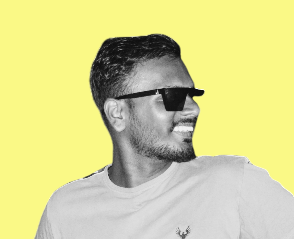
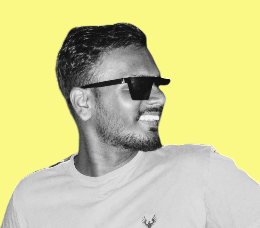
all files are added adn complete portfolio

diff --git a/index.html b/index.html
@@ -12,12 +12,12 @@
 
 <body>
   <nav id="desktop-nav">
-    <div class="logo"></div>
+    <div class="logo">Darshan B Halligudi</div>
     <div>
       <ul class="nav-links">
         <li><a href="#about">About</a></li>
-        <li><a href="#experience">Experience</a></li>
         <li><a href="#projects">Projects</a></li>
+        <li><a href="#skills">Skills</a></li>
         <li><a href="#contact">Contact</a></li>
       </ul>
     </div>
@@ -32,8 +32,8 @@
       </div>
       <div class="menu-links">
         <li><a href="#about" onclick="toggleMenu()">About</a></li>
-        <li><a href="#experience" onclick="toggleMenu()">Experience</a></li>
         <li><a href="#projects" onclick="toggleMenu()">Projects</a></li>
+        <li><a href="#skills" onclick="toggleMenu()">Skills</a></li>
         <li><a href="#contact" onclick="toggleMenu()">Contact</a></li>
       </div>
     </div>
@@ -46,6 +46,7 @@
       <p class="section__text__p1">Hello, I'm</p>
       <h1 class="title">Darshan </h1>
       <p class="section__text__p2">Full Stack- web developer</p>
+
       <div class="btn-container">
         <button class="btn btn-color-2" onclick="window.open('./assets/Darshan_B_Halligudi_resume.pdf')">
           Download CV
@@ -54,7 +55,14 @@
           Contact Info
         </button>
       </div>
+      <br>
+      <div>
+        <p>Get in touch</p>
+      </div>
+
       <div id="socials-container">
+
+
         <img src="./assets/linkedin.png" alt="My LinkedIn profile" class="icon"
           onclick="location.href='https://www.linkedin.com/in/darshan-b-halligudi-754672270/'" />
         <img src="./assets/github.png" alt="My Github profile" class="icon"
@@ -67,7 +75,8 @@
     <h1 class="title">About Me</h1>
     <div class="section-container">
       <div class="section__pic-container">
-        <img src="./assets/Untitled design-fotor-bg-remover-20250806151928-Photoroom.png" alt="Profile picture" class="about-pic" />
+        <img src="./assets/experince pic.jpg" alt="Profile picture"
+          class="about-pic" />
       </div>
       <div class="about-details-container">
         <div class="about-containers">
@@ -92,9 +101,9 @@
         </div>
       </div>
     </div>
-    <img src="./assets/arrow.png" alt="Arrow icon" class="icon arrow" onclick="location.href='./#experience'" />
+    <img src="./assets/arrow.png" alt="Arrow icon" class="icon arrow" onclick="location.href='./#projects'" />
   </section>
-  
+
   <section id="projects">
     <p class="section__text__p1">Browse My Recent</p>
     <h1 class="title">Projects</h1>
@@ -106,10 +115,11 @@
           </div>
           <h2 class="experience-sub-title project-title">Project One</h2>
           <div class="btn-container">
-            <button class="btn btn-color-2 project-btn" onclick="location.href='https://github.com/darshanbh/Minor_prj.git'">
+            <button class="btn btn-color-2 project-btn"
+              onclick="location.href='https://github.com/darshanbh/Minor_prj.git'">
               Github
             </button>
-           
+
           </div>
         </div>
         <div class="details-container color-container">
@@ -118,7 +128,8 @@
           </div>
           <h2 class="experience-sub-title project-title">Project Two</h2>
           <div class="btn-container">
-            <button class="btn btn-color-2 project-btn" onclick="location.href='https://github.com/darshanbh/e-comm.git'">
+            <button class="btn btn-color-2 project-btn"
+              onclick="location.href='https://github.com/darshanbh/e-comm.git'">
               Github
             </button>
             <button class="btn btn-color-2 project-btn" onclick="location.href='https://e-commerce-prime.netlify.app/'">
@@ -132,16 +143,65 @@
           </div>
           <h2 class="experience-sub-title project-title">Project Three</h2>
           <div class="btn-container">
-            <button class="btn btn-color-2 project-btn" onclick="location.href='https://github.com/darshanbh/Ai-based-Medical-diagnosis-new.git'">
+            <button class="btn btn-color-2 project-btn"
+              onclick="location.href='https://github.com/darshanbh/Ai-based-Medical-diagnosis-new.git'">
               Github
             </button>
-            
+
           </div>
         </div>
       </div>
     </div>
-    <img src="./assets/arrow.png" alt="Arrow icon" class="icon arrow" onclick="location.href='./#contact'" />
+    <img src="./assets/arrow.png" alt="Arrow icon" class="icon arrow" onclick="location.href='./#skills'" />
   </section>
+  <section id="skills">
+    <p class="section__text__p1">Explore My</p>
+    <img src="./assets\icons8-skills-64.png" alt="skiilset">
+    <h1 class="title">Skills</h1>
+    <div class="skills-container">
+      <div class="skill-category">
+        <h3>Frontend</h3>
+        <ul>
+          <li>HTML</li>
+          <li>CSS</li>
+          <li>JavaScript</li>
+          <li>React.js</li>
+          <li>Bootstrap</li>
+        </ul>
+      </div>
+      <div class="skill-category">
+        <h3>Backend</h3>
+        <ul>
+          <li>Node.js</li>
+          <li>Express.js</li>
+          <li>MySQL</li>
+          
+        </ul>
+      </div>
+      <div class="skill-category">
+        <h3>Programming Languages</h3>
+        <ul>
+          <li>Java</li>
+          <li>C++</li>
+
+          
+        </ul>
+      </div>
+      <div class="skill-category">
+        <h3>Other Tools</h3>
+        <ul>
+          <li>Git & GitHub</li>
+          <li>Postman</li>
+          <li>VS Code</li>
+          <li>Netlify </li>
+          <li>Render (for backend)</li>
+        </ul>
+      </div>
+       <img src="./assets/arrow.png" alt="Arrow icon" class="icon arrow" onclick="location.href='./#contact'" />
+    </div>
+    
+  </section>
+
   <section id="contact">
     <p class="section__text__p1">Get in Touch</p>
     <h1 class="title">Contact Me</h1>
@@ -161,8 +221,8 @@
       <div class="nav-links-container">
         <ul class="nav-links">
           <li><a href="#about">About</a></li>
-          <li><a href="#experience">Experience</a></li>
           <li><a href="#projects">Projects</a></li>
+          <li><a href="#skills">Skills</a></li>
           <li><a href="#contact">Contact</a></li>
         </ul>
       </div>

diff --git a/style.css b/style.css
@@ -433,3 +433,42 @@ footer {
 footer p {
   text-align: center;
 }
+
+#skills {
+  padding: 4rem 0;
+  text-align: center;
+  background-color: #f9f9f9; /* Optional light background */
+}
+
+.skills-container {
+  display: flex;
+  flex-wrap: wrap;
+  justify-content: center;
+  gap: 2rem;
+  margin-top: 2rem;
+}
+
+.skill-category {
+  background-color: #ffffff;
+  border-radius: 10px;
+  padding: 1.5rem;
+  box-shadow: 0 4px 10px rgba(0, 0, 0, 0.1);
+  width: 250px;
+}
+
+.skill-category h3 {
+  margin-bottom: 1rem;
+  color: #333;
+}
+
+.skill-category ul {
+  list-style-type: none;
+  padding: 0;
+  margin: 0;
+}
+
+.skill-category li {
+  margin: 0.5rem 0;
+  color: #555;
+}
+
